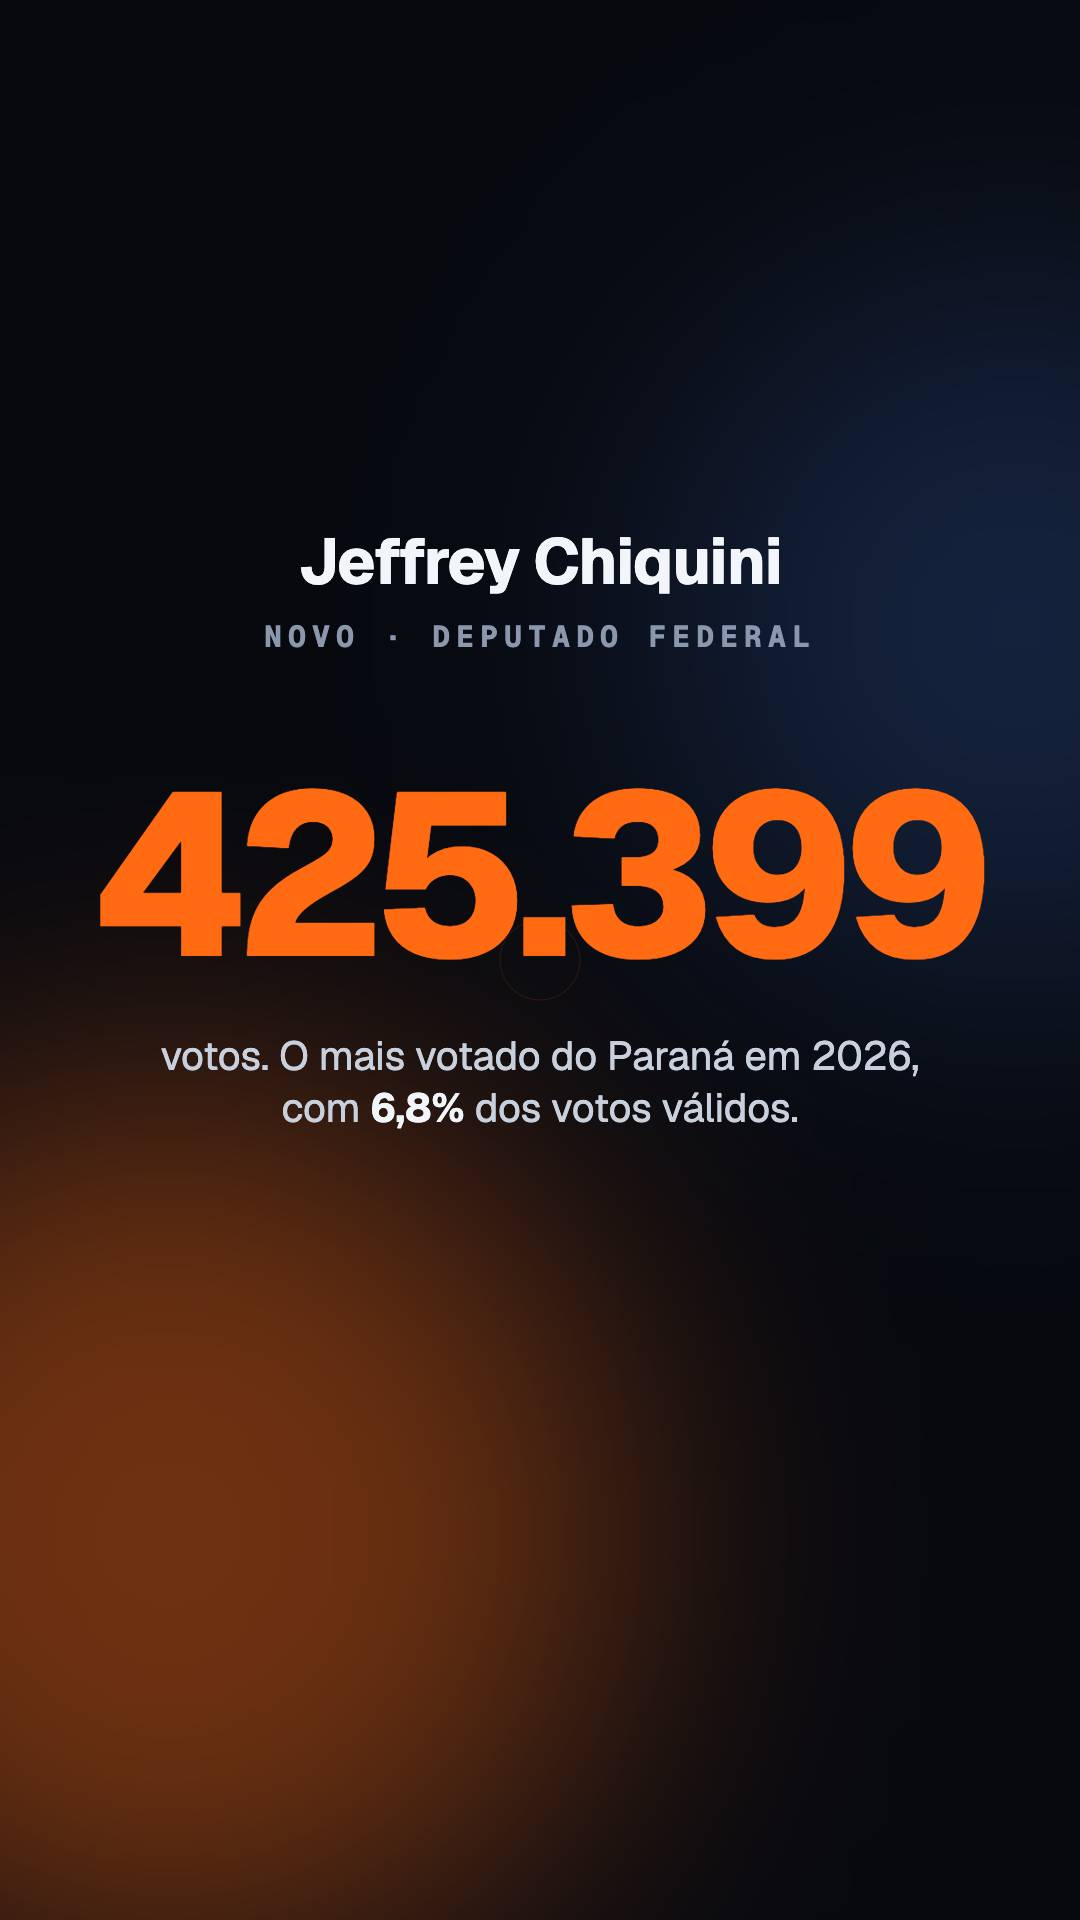
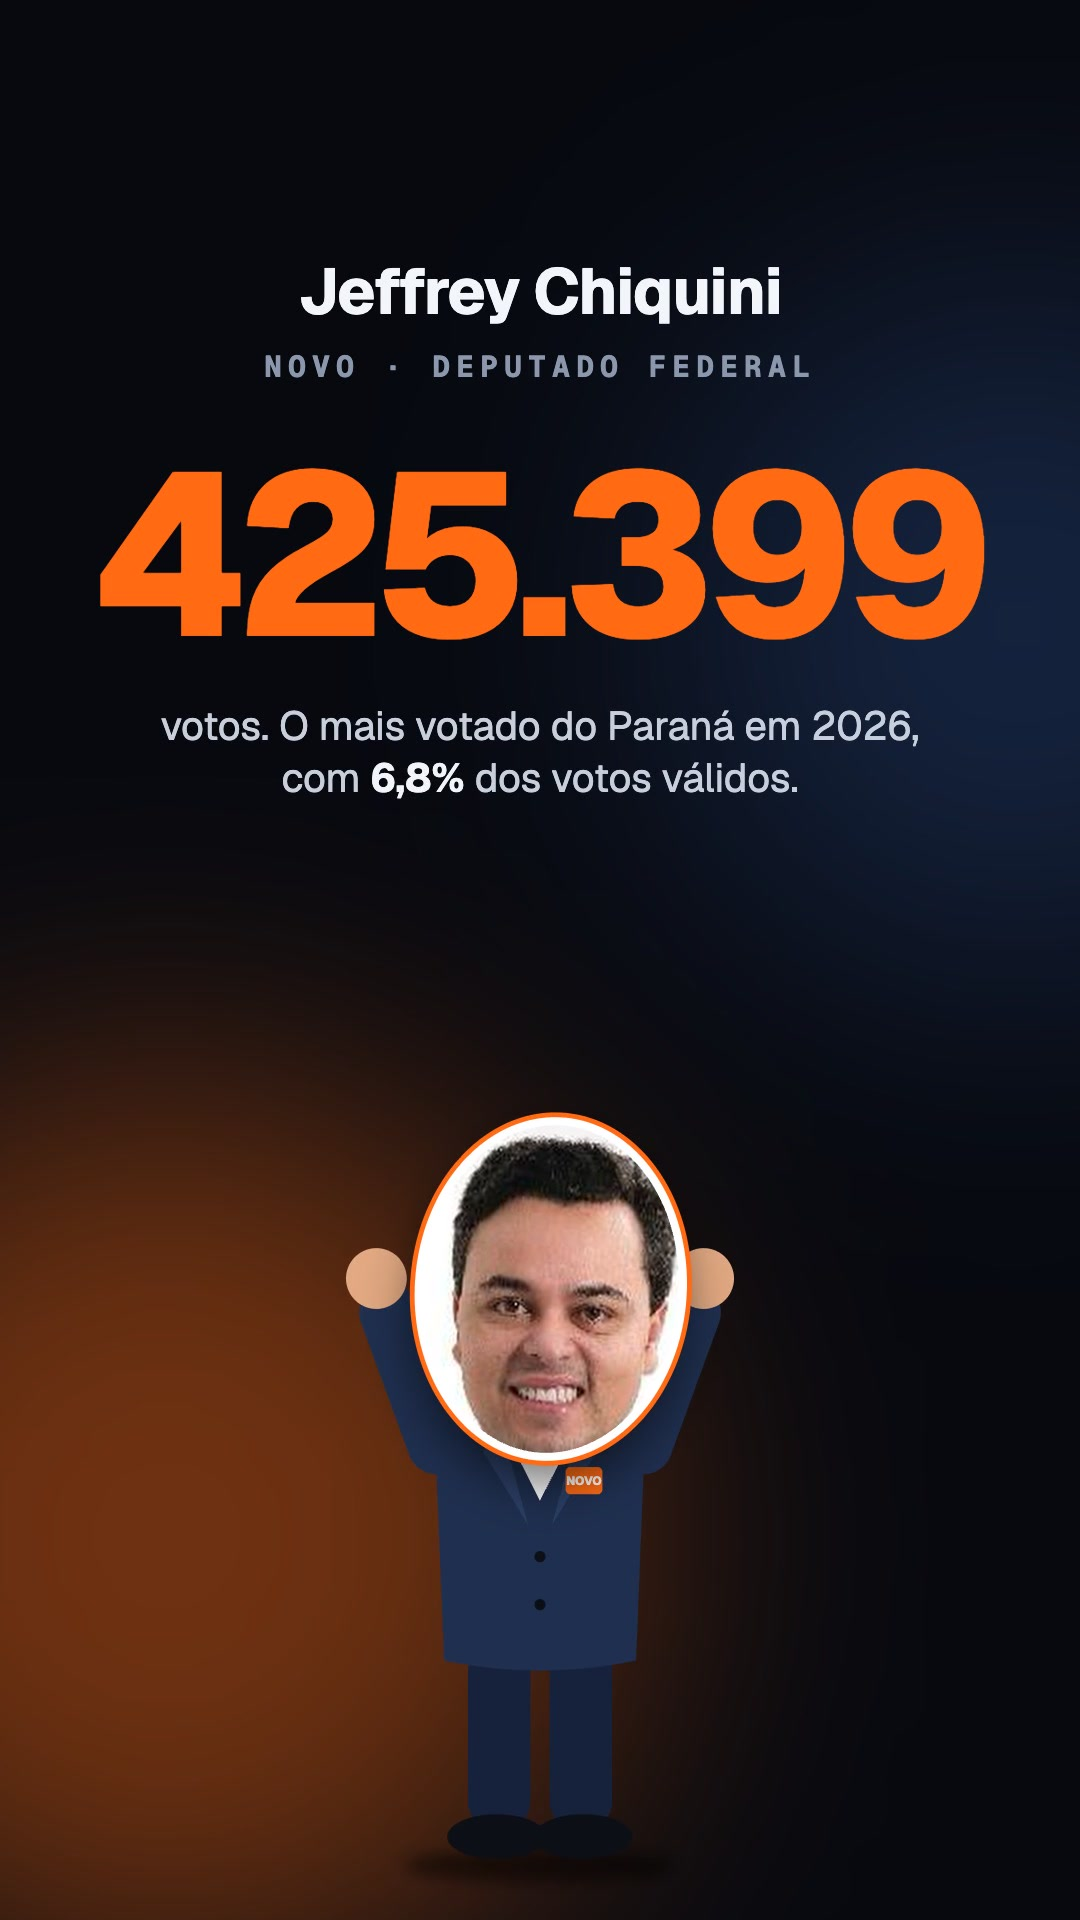
Reels Chiquini: 60 s, boneco com o rosto (foto do TSE) e trilha de 60 s
Claude-Session: https://claude.ai/code/session_01G5MEnPi1wYFbWgRaDqBcje

Changed region(s): [[0.1528, 0.5312, 0.8556, 1.0], [0.0917, 0.125, 0.9167, 0.3438], [0.0917, 0.375, 0.9167, 0.5]]

diff --git a/analise-2026/video/chiquini/reel.html b/analise-2026/video/chiquini/reel.html
@@ -3,8 +3,9 @@
 <head>
 <meta charset="utf-8">
 <title>Ovile Diagnóstico · Reels Chiquini</title>
-<!-- Reels 9:16, 30 s: a votação histórica de Jeffrey Chiquini (NOVO, deputado federal PR 2026).
-     Mesma trilha do lançamento (../trilha.wav, 120 BPM): cenas trocam em 2, 6, 10, 14, 18, 22 s e o fim entra no impacto de 26 s.
+<!-- Reels 9:16, 60 s: a votação histórica de Jeffrey Chiquini (NOVO, deputado federal PR 2026).
+     Trilha trilha60.wav (trilha60.mjs, 120 BPM): cenas trocam em 4, 12, 20, 28, 36, 44 s e o fim entra no impacto de 52 s.
+     Boneco: corpo vetorial + rosto da foto oficial do TSE (rosto.jpg, ampliada da foto de 161×225).
      Dados em dados.js (gerar.mjs, TSE). Recorde anterior (Ratinho Júnior, 2010, 358.924) vem da imprensa, não do nosso banco.
      A linha do tempo fica pausada: window.__seek(t) posiciona o quadro (../renderizar.mjs grava 30 fps). ?play toca em tempo real. -->
 <script src="https://cdnjs.cloudflare.com/ajax/libs/gsap/3.12.5/gsap.min.js"></script>
@@ -33,10 +34,10 @@
   .fonte { position: absolute; left: 0; right: 0; bottom: 70px; text-align: center; font: 500 24px "Geist Mono", monospace; color: #5d6880; letter-spacing: 1px; }
 
   /* cena 2: contador */
-  #nome { top: 520px; font-size: 64px; font-weight: 700; text-align: center; letter-spacing: -1px; }
+  #nome { top: 250px; font-size: 64px; font-weight: 700; text-align: center; letter-spacing: -1px; }
   #nome small { display: block; font: 600 30px "Geist Mono", monospace; color: var(--suave); letter-spacing: 6px; margin-top: 14px; }
-  #conta { top: 760px; text-align: center; font-size: 230px; font-weight: 800; letter-spacing: -9px; color: var(--laranja); font-variant-numeric: tabular-nums; line-height: 1; }
-  #conta-sub { top: 1030px; }
+  #conta { top: 440px; text-align: center; font-size: 230px; font-weight: 800; letter-spacing: -9px; color: var(--laranja); font-variant-numeric: tabular-nums; line-height: 1; }
+  #conta-sub { top: 700px; }
 
   /* cena 3: barras */
   .barra { margin-top: 56px; }
@@ -63,7 +64,15 @@
   /* cena 7: custo */
   #custo { top: 760px; text-align: center; font-size: 220px; font-weight: 800; letter-spacing: -8px; color: var(--laranja); line-height: 1; }
 
-  #fim { display: flex; flex-direction: column; align-items: center; justify-content: center; gap: 44px; text-align: center; }
+
+  /* boneco: corpo vetorial + rosto (foto oficial do TSE) recortado em adesivo */
+  #boneco { position: absolute; left: 50%; top: 0; width: 420px; height: 940px; margin-left: -210px; transform-origin: 50% 100%; z-index: 4; }
+  #boneco svg { position: absolute; left: 10px; top: 360px; width: 400px; height: 580px; overflow: visible; }
+  #cabeca { position: absolute; left: 50%; top: 0; width: 340px; height: 430px; margin-left: -170px; border-radius: 50%; overflow: hidden;
+    border: 10px solid #fff; box-shadow: 0 0 0 6px var(--laranja), 0 30px 60px rgba(0,0,0,.55); background: #fff; transform-origin: 50% 95%; z-index: 2; }
+  #cabeca img { position: absolute; width: 400px; left: -30px; top: -8px; }
+  #sombra { position: absolute; left: 50%; bottom: -16px; width: 340px; height: 40px; margin-left: -170px; border-radius: 50%; background: rgba(0,0,0,.55); filter: blur(10px); }
+  #fim { display: flex; flex-direction: column; align-items: center; justify-content: flex-start; padding-top: 330px; gap: 44px; text-align: center; }
   #fim .tag { font-size: 100px; font-weight: 750; line-height: 1.02; letter-spacing: -3px; }
   #fim .url { font: 600 40px "Geist", sans-serif; background: var(--cartao); border: 1px solid var(--borda); border-radius: 999px; padding: 22px 46px; }
   #anel { position: absolute; left: 50%; top: 50%; width: 1600px; height: 1600px; margin: -800px 0 0 -800px; border-radius: 50%; border: 3px solid var(--laranja); opacity: 0; }
@@ -75,8 +84,8 @@
 
   <!-- 0–2 s -->
   <div class="cena" id="s1">
-    <div class="abs rotulo" style="top:760px">Eleição 2026 · Paraná</div>
-    <div class="abs titulo" style="top:830px"><span class="linha"><span class="p">Uma</span> <span class="p">votação</span></span><span class="linha"><span class="p k">histórica.</span></span></div>
+    <div class="abs rotulo" style="top:330px">Eleição 2026 · Paraná</div>
+    <div class="abs titulo" style="top:400px"><span class="linha"><span class="p">Uma</span> <span class="p">votação</span></span><span class="linha"><span class="p k">histórica.</span></span></div>
   </div>
 
   <!-- 2–6 s -->
@@ -94,7 +103,7 @@
       <div class="barra"><div class="cab"><span>Ratinho Júnior<small>2010 · recorde anterior</small></span><b data-v="358924">0</b></div><div class="trilho"><div class="enche" data-w="84.4"></div></div></div>
       <div class="barra"><div class="cab"><span>Deltan Dallagnol<small>2022</small></span><b data-v="344917">0</b></div><div class="trilho"><div class="enche" data-w="81.1"></div></div></div>
     </div>
-    <div class="fonte">TSE · 2010: dado divulgado pela imprensa</div>
+    <div class="fonte" style="text-align:left;left:70px">TSE · 2010: dado divulgado<br>pela imprensa</div>
   </div>
 
   <!-- 10–18 s: mapa -->
@@ -126,6 +135,33 @@
     <div class="fonte">TSE · prestação de contas parcial</div>
   </div>
 
+
+  <div id="boneco">
+    <div id="sombra"></div>
+    <div id="cabeca"><img src="rosto.jpg" alt=""></div>
+    <svg viewBox="0 0 400 580" aria-hidden="true">
+      <g id="pernas">
+        <rect x="110" y="300" width="78" height="230" rx="34" fill="#16223b"/>
+        <rect x="212" y="300" width="78" height="230" rx="34" fill="#16223b"/>
+        <ellipse cx="146" cy="540" rx="62" ry="28" fill="#0c0f16"/>
+        <ellipse cx="254" cy="540" rx="62" ry="28" fill="#0c0f16"/>
+      </g>
+      <g id="braco-e" style="transform-origin:78px 70px">
+        <rect x="40" y="58" width="74" height="250" rx="37" fill="#1f2f4f"/>
+        <circle cx="77" cy="316" r="38" fill="#e2a982"/>
+      </g>
+      <g id="braco-d" style="transform-origin:322px 70px">
+        <rect x="286" y="58" width="74" height="250" rx="37" fill="#1f2f4f"/>
+        <circle cx="323" cy="316" r="38" fill="#e2a982"/>
+      </g>
+      <path d="M70 70 Q70 30 130 22 L270 22 Q330 30 330 70 L320 320 Q200 345 80 320 Z" fill="#1f2f4f"/>
+      <path d="M150 22 L200 120 L250 22 Z" fill="#ffffff"/>
+      <path d="M150 22 L185 150 L130 60 Z M250 22 L215 150 L270 60 Z" fill="#2b3f66"/>
+      <circle cx="200" cy="190" r="7" fill="#0c0f16"/><circle cx="200" cy="250" r="7" fill="#0c0f16"/>
+      <rect x="232" y="78" width="46" height="34" rx="6" fill="#ff6a13"/>
+      <text x="255" y="101" text-anchor="middle" font-family="Geist" font-weight="800" font-size="15" fill="#fff">NOVO</text>
+    </svg>
+  </div>
   <div id="anel"></div>
   <div class="cena" id="fim">
     <div class="logo">OVILE <b>DIAGNÓSTICO</b></div>
@@ -138,13 +174,12 @@
 const R = window.RESUMO, fmt = (n) => Math.round(n).toLocaleString("pt-BR");
 document.getElementById("pct").textContent = (100 * R.votos / R.validos).toLocaleString("pt-BR", { maximumFractionDigits: 1 }) + "%";
 
-// mapa: cor pelo percentual dos votos válidos da cidade; as 6 cidades em que ele foi o mais votado ganham contorno
+// mapa: cor pelo percentual dos votos válidos da cidade; as 6 cidades em que ele foi o mais votado ganham destaque
 const proj = d3.geoMercator().fitSize([1000, 760], GEO), caminho = d3.geoPath(proj);
 const porIbge = new Map(CIDADES.map((c) => [c.ibge, c]));
 const max = d3.max(CIDADES, (c) => c.pct);
 const cor = (c) => d3.interpolateRgb("#2a1a12", "#ff6a13")(Math.sqrt((c?.pct ?? 0) / max));
-const svg = d3.select("#mapa");
-svg.selectAll("path.m").data(GEO.features).join("path").attr("class", "m").attr("d", caminho)
+d3.select("#mapa").selectAll("path.m").data(GEO.features).join("path").attr("class", "m").attr("d", caminho)
   .attr("fill", "#141a26").attr("stroke", "#07090f").attr("stroke-width", .8)
   .attr("data-cor", (f) => cor(porIbge.get(f.properties.codarea)))
   .attr("data-venceu", (f) => (porIbge.get(f.properties.codarea)?.venceu ? 1 : 0))
@@ -153,81 +188,114 @@ const muns = [...document.querySelectorAll("#mapa path.m")].sort((a, b) => b.dat
 const venc = muns.filter((p) => p.dataset.venceu === "1"), outros = muns.filter((p) => p.dataset.venceu !== "1");
 
 const tl = gsap.timeline({ paused: true, defaults: { ease: "power3.out" } });
-gsap.set([".cena", "#fim"], { autoAlpha: 0 });
+gsap.set([".cena", "#fim", "#boneco"], { autoAlpha: 0 });
 gsap.set(".titulo .p", { yPercent: 110 });
+gsap.set("#braco-e", { svgOrigin: "78 72" }); gsap.set("#braco-d", { svgOrigin: "322 72" }); // gira no ombro
 
-tl.to("#b1", { x: 300, y: -260, duration: 30, ease: "sine.inOut" }, 0).to("#b2", { x: -220, y: 420, duration: 30, ease: "sine.inOut" }, 0);
+tl.to("#b1", { x: 300, y: -260, duration: 60, ease: "sine.inOut" }, 0).to("#b2", { x: -220, y: 420, duration: 60, ease: "sine.inOut" }, 0);
 
 const entra = (sel, t) => tl.to(sel, { autoAlpha: 1, duration: .01 }, t);
-const sai = (sel, t) => tl.to(sel, { autoAlpha: 0, filter: "blur(14px)", duration: .3, ease: "power2.in" }, t);
-const titulo = (sel, t) => tl.to(`${sel} .p`, { yPercent: 0, duration: .55, stagger: .06 }, t);
-const surge = (sel, t, extra = {}) => tl.fromTo(sel, { autoAlpha: 0, y: 40 }, { autoAlpha: 1, y: 0, duration: .6, ...extra }, t);
+const sai = (sel, t) => tl.to(sel, { autoAlpha: 0, filter: "blur(14px)", duration: .35, ease: "power2.in" }, t);
+const titulo = (sel, t) => tl.to(`${sel} .p`, { yPercent: 0, duration: .6, stagger: .08 }, t);
+const surge = (sel, t, extra = {}) => tl.fromTo(sel, { autoAlpha: 0, y: 40 }, { autoAlpha: 1, y: 0, duration: .7, ...extra }, t);
 const contador = (el, alvo, t, dur) => { const o = { v: 0 }; tl.to(o, { v: alvo, duration: dur, ease: "power2.out", onUpdate: () => (el.textContent = fmt(o.v)) }, t); };
 
-// 0–2 s
-entra("#s1", 0); tl.from("#s1 .rotulo", { autoAlpha: 0, letterSpacing: "20px", duration: .9 }, .1); titulo("#s1", .35); sai("#s1", 1.7);
+// ---- boneco: gestos em batidas de 0,5 s (120 BPM) ----
+const B = "#boneco", BE = "#braco-e", BD = "#braco-d", CAB = "#cabeca";
+const pos = (t, { x = 0, y, s }, dur = .8) => tl.to(B, { x, y, scale: s, duration: dur, ease: "power3.inOut" }, t);
+function balanca(t0, t1) { // sobe e desce no tempo da música, cabeça acompanha
+  for (let t = t0; t < t1 - .01; t += .5) {
+    tl.to(B, { y: "-=14", duration: .25, ease: "sine.out" }, t).to(B, { y: "+=14", duration: .25, ease: "sine.in" }, t + .25)
+      .to(CAB, { rotation: ((t * 2) % 2 ? 4 : -4), duration: .5, ease: "sine.inOut" }, t);
+  }
+}
+function acena(t, vezes = 4) {
+  tl.to(BD, { rotation: -150, duration: .35, ease: "back.out(2)" }, t);
+  for (let i = 0; i < vezes; i++) tl.to(BD, { rotation: i % 2 ? -150 : -120, duration: .25, ease: "sine.inOut" }, t + .35 + i * .25);
+  tl.to(BD, { rotation: 0, duration: .4, ease: "power2.inOut" }, t + .35 + vezes * .25);
+}
+function comemora(t, vezes = 4) { // os dois braços para cima, socando o ar
+  tl.to(BE, { rotation: 160, duration: .3, ease: "back.out(2)" }, t).to(BD, { rotation: -160, duration: .3, ease: "back.out(2)" }, t);
+  for (let i = 0; i < vezes; i++) tl.to(B, { y: i % 2 ? "+=40" : "-=40", duration: .25, ease: i % 2 ? "power2.in" : "power2.out" }, t + .3 + i * .25);
+  tl.to(BE, { rotation: 0, duration: .4, ease: "power2.inOut" }, t + .3 + vezes * .25).to(BD, { rotation: 0, duration: .4, ease: "power2.inOut" }, t + .3 + vezes * .25);
+}
+function aponta(t, dur, ang = -100) { tl.to(BD, { rotation: ang, duration: .4, ease: "back.out(2)" }, t).to(BD, { rotation: 0, duration: .4, ease: "power2.inOut" }, t + dur); }
 
-// 2–6 s: contador
-entra("#s2", 2.0);
-surge("#nome", 2.0);
-tl.fromTo("#conta", { autoAlpha: 0, scale: .8 }, { autoAlpha: 1, scale: 1, duration: .5 }, 2.2);
-contador(document.getElementById("conta"), R.votos, 2.2, 2.2);
-tl.fromTo("#conta", { scale: 1 }, { scale: 1.06, duration: .18, yoyo: true, repeat: 1, ease: "power1.inOut" }, 4.4);
-surge("#conta-sub", 4.0);
-sai("#s2", 5.7);
+// 0–4 s: abertura, boneco entra pulando e acena
+entra("#s1", 0); tl.from("#s1 .rotulo", { autoAlpha: 0, letterSpacing: "20px", duration: 1 }, .1); titulo("#s1", .5);
+tl.set(B, { y: 1950, scale: .95, autoAlpha: 1 }, 0).to(B, { y: 900, duration: .9, ease: "back.out(1.3)" }, .6);
+acena(1.4, 6); balanca(1.6, 3.6);
+sai("#s1", 3.6);
 
-// 6–10 s: barras
-entra("#s3", 6.0); titulo("#s3", 6.0);
+// 4–12 s: contador (boneco desce e comemora quando o número fecha)
+entra("#s2", 4.0);
+pos(4.0, { y: 960, s: .8 });
+surge("#nome", 4.2);
+tl.fromTo("#conta", { autoAlpha: 0, scale: .8 }, { autoAlpha: 1, scale: 1, duration: .6 }, 4.6);
+contador(document.getElementById("conta"), R.votos, 4.6, 3.4);
+tl.fromTo("#conta", { scale: 1 }, { scale: 1.07, duration: .2, yoyo: true, repeat: 1, ease: "power1.inOut" }, 8.0);
+comemora(8.0, 6);
+surge("#conta-sub", 8.4);
+balanca(10.0, 11.5);
+sai("#s2", 11.6);
+
+// 12–20 s: recorde (barras devagar; boneco de lado apontando para a barra dele)
+entra("#s3", 12.0); titulo("#s3", 12.0);
+pos(12.0, { x: 340, y: 965, s: .42 });
 document.querySelectorAll("#s3 .barra").forEach((b, i) => {
-  const t = 6.7 + i * .35;
-  surge(b, t, { duration: .45 });
-  tl.to(b.querySelector(".enche"), { width: b.querySelector(".enche").dataset.w + "%", duration: 1.4, ease: "power2.out" }, t + .1);
-  contador(b.querySelector("b"), +b.querySelector("b").dataset.v, t + .1, 1.4);
+  const t = 13.4 + i * 1.1;
+  surge(b, t, { duration: .5 });
+  tl.to(b.querySelector(".enche"), { width: b.querySelector(".enche").dataset.w + "%", duration: 2, ease: "power2.out" }, t + .1);
+  contador(b.querySelector("b"), +b.querySelector("b").dataset.v, t + .1, 2);
 });
-surge("#s3 .fonte", 7.5);
-sai("#s3", 9.7);
+aponta(13.6, 2.6, -60);
+comemora(17.0, 4);
+surge("#s3 .fonte", 15.5);
+sai("#s3", 19.6);
+tl.to(B, { autoAlpha: 0, y: 1950, duration: .5, ease: "power2.in" }, 19.4);
 
-// 10–14 s: mapa acende
-entra("#s4", 10.0); titulo("#t4a", 10.0);
-tl.from("#mapa", { autoAlpha: 0, scale: .92, duration: .7 }, 10.0);
-tl.to(muns, { attr: { fill: (i, el) => el.dataset.cor }, duration: .25, stagger: { each: 1.9 / muns.length } }, 10.5);
-surge("#c4a", 12.2); surge("#c4b", 12.5);
-tl.to("#t4a", { autoAlpha: 0, y: -30, filter: "blur(14px)", duration: .3, ease: "power2.in" }, 13.7)
-  .to(["#c4a", "#c4b"], { autoAlpha: 0, y: 30, duration: .3, ease: "power2.in" }, 13.7);
+// 20–28 s: mapa acende
+entra("#s4", 20.0); titulo("#t4a", 20.0);
+tl.from("#mapa", { autoAlpha: 0, scale: .92, duration: .8 }, 20.2);
+tl.to(muns, { attr: { fill: (i, el) => el.dataset.cor }, duration: .3, stagger: { each: 3.2 / muns.length } }, 20.8);
+surge("#c4a", 24.4); surge("#c4b", 25.0);
+tl.to("#t4a", { autoAlpha: 0, y: -30, filter: "blur(14px)", duration: .35, ease: "power2.in" }, 27.6)
+  .to(["#c4a", "#c4b"], { autoAlpha: 0, y: 30, duration: .35, ease: "power2.in" }, 27.6);
 
-// 14–18 s: só 6 cidades vencidas
-titulo("#t4b", 14.0);
-tl.to(outros, { attr: { "fill-opacity": .28 }, duration: .6, ease: "power1.inOut" }, 14.4)
-  .to(venc, { attr: { fill: "#ffd2b0", stroke: "#ffffff", "stroke-width": 2.4 }, duration: .5, stagger: .12 }, 14.6)
-  .to(outros, { attr: { "fill-opacity": 1 }, duration: .8, ease: "power1.inOut" }, 16.4);
-surge("#c5", 15.3);
-sai("#s4", 17.7);
+// 28–36 s: só 6 cidades vencidas
+titulo("#t4b", 28.0);
+tl.to(outros, { attr: { "fill-opacity": .25 }, duration: .8, ease: "power1.inOut" }, 28.6)
+  .to(venc, { attr: { fill: "#ffd2b0", stroke: "#ffffff", "stroke-width": 2.4 }, duration: .6, stagger: .25 }, 29.0);
+surge("#c5", 30.8);
+tl.to(outros, { attr: { "fill-opacity": 1 }, duration: 1.2, ease: "power1.inOut" }, 33.2);
+sai("#s4", 35.6);
 
-// 18–22 s: quocientes
-entra("#s6", 18.0); titulo("#s6", 18.0);
-surge("#blocos", 18.5);
-tl.to("#blocos .bloco i", { scaleX: 1, duration: .7, stagger: .55, ease: "power2.inOut" }, 18.8);
-surge("#s6sub", 20.2);
-sai("#s6", 21.7);
+// 36–44 s: quocientes
+entra("#s6", 36.0); titulo("#s6", 36.0);
+surge("#blocos", 36.8);
+tl.to("#blocos .bloco i", { scaleX: 1, duration: 1.1, stagger: 1, ease: "power2.inOut" }, 37.2);
+surge("#s6sub", 40.0);
+sai("#s6", 43.6);
 
-// 22–26 s: custo
-entra("#s7", 22.0); titulo("#s7", 22.0);
-tl.fromTo("#custo", { autoAlpha: 0, scale: .7, filter: "blur(16px)" }, { autoAlpha: 1, scale: 1, filter: "blur(0px)", duration: .6, ease: "back.out(1.7)" }, 22.8);
-surge("#s7sub", 23.5); surge("#s7 .fonte", 23.8);
-sai("#s7", 25.6);
+// 44–52 s: custo
+entra("#s7", 44.0); titulo("#s7", 44.0);
+tl.fromTo("#custo", { autoAlpha: 0, scale: .7, filter: "blur(16px)" }, { autoAlpha: 1, scale: 1, filter: "blur(0px)", duration: .7, ease: "back.out(1.7)" }, 45.2);
+surge("#s7sub", 46.4); surge("#s7 .fonte", 47.0);
+sai("#s7", 51.6);
 
-// 26 s: impacto → fim
-tl.fromTo("#anel", { autoAlpha: .9, scale: .05 }, { autoAlpha: 0, scale: 1.2, duration: 1.2, ease: "power2.out" }, 26.0)
-  .to("#fim", { autoAlpha: 1, duration: .01 }, 26.0)
-  .from("#fim .logo", { autoAlpha: 0, y: 50, filter: "blur(16px)", duration: .6 }, 26.0)
-  .from("#fim .tag", { autoAlpha: 0, scale: .9, filter: "blur(16px)", duration: .7 }, 26.25)
-  .from("#fim .url", { autoAlpha: 0, y: 30, duration: .6, ease: "back.out(2)" }, 26.9)
-  .to("#palco", { autoAlpha: 0, duration: .6, ease: "power1.in" }, 29.4)
-  .set({}, {}, 30);
+// 52 s: impacto → fim, boneco volta e acena para a marca
+tl.fromTo("#anel", { autoAlpha: .9, scale: .05 }, { autoAlpha: 0, scale: 1.2, duration: 1.4, ease: "power2.out", immediateRender: false }, 52.0)
+  .to("#fim", { autoAlpha: 1, duration: .01 }, 52.0)
+  .from("#fim .logo", { autoAlpha: 0, y: 50, filter: "blur(16px)", duration: .7 }, 52.0)
+  .from("#fim .tag", { autoAlpha: 0, scale: .9, filter: "blur(16px)", duration: .8 }, 52.3)
+  .from("#fim .url", { autoAlpha: 0, y: 30, duration: .7, ease: "back.out(2)" }, 53.0);
+tl.set(B, { x: 0, y: 1950, scale: .66 }, 53.2).to(B, { autoAlpha: 1, duration: .01 }, 53.2).to(B, { y: 930, duration: .8, ease: "back.out(1.4)" }, 53.3);
+acena(54.2, 6); balanca(54.4, 58.4);
+tl.to("#palco", { autoAlpha: 0, duration: .8, ease: "power1.in" }, 59.2).set({}, {}, 60);
 
-window.__duracao = 30;
+window.__duracao = 60;
 window.__seek = (t) => { tl.seek(t, false); };
-window.__pronto = document.fonts.ready;
+window.__pronto = Promise.all([...document.images].map((i) => (i.complete ? null : new Promise((r) => { i.onload = i.onerror = r; })))).then(() => document.fonts.ready);
 if (location.search.includes("play")) tl.play();
 </script>
 </body>
